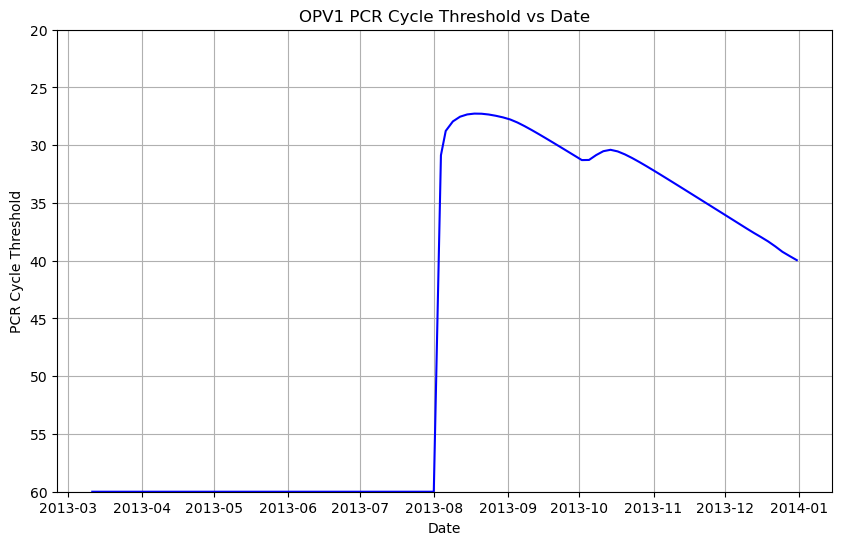
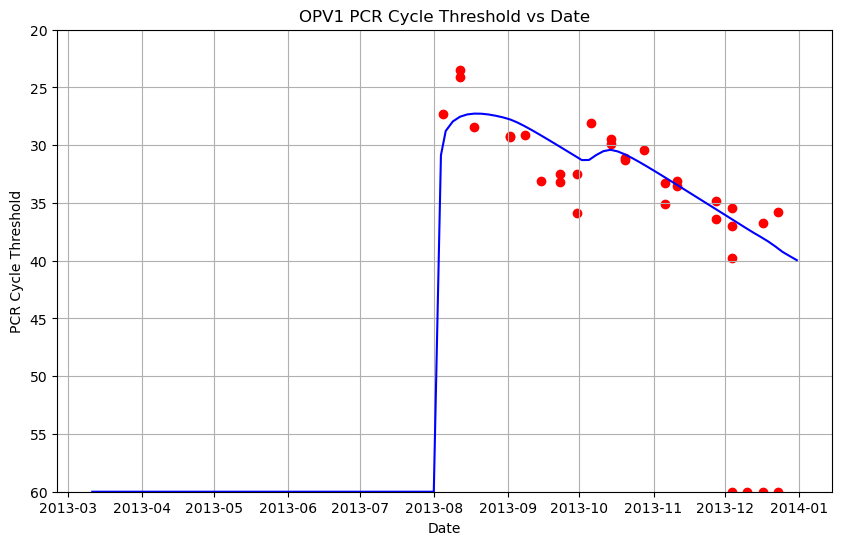
added scatter plots to PCR data

diff --git a/model_sim.py b/model_sim.py
@@ -4,6 +4,10 @@ import matplotlib.pyplot as plt
 import math
 import matplotlib.dates as mdates
 from datetime import datetime, timedelta
+import csv
+import data_parser as parser
+import datetime
+
 
 
 
@@ -130,17 +134,33 @@ RW_values = y_values[9]
 Io_values = IOT_values + IOV_values
 
 # Add function for cycle thresholds
-y_w = calculate_y(sewage_scaling_w, IW_values)
-y_o = calculate_y(sewage_scaling_o, Io_values)
+y_w_model = calculate_y(sewage_scaling_w, IW_values)
+y_o_model = calculate_y(sewage_scaling_o, Io_values)
+
+# Parse WPV1.csv
+WPV1_header, WPV1_data = parser.parse_csv("WPV1.csv")
+WPV1_data_dates = [row[0] for row in WPV1_data]  # Assuming the dates are in the first column
+y_w_data = [float(row[1]) for row in WPV1_data]  # Assuming the values are in the second column
+
+reference_date = datetime.datetime(2013, 3, 11)
+WPV1_dates = [reference_date + datetime.timedelta(days=int(day)) for day in WPV1_data_dates]
+
+# Parse OPV1.csv
+OPV1_header, OPV1_data = parser.parse_csv("OPV1.csv")
+OPV1_data_dates = [row[0] for row in OPV1_data]  # Assuming the dates are in the first column
+y_o_data = [float(row[1]) for row in OPV1_data]  # Assuming the values are in the second column
+
+OPV1_reference_date = datetime.datetime(2013, 8, 5)
+OPV1_dates = [OPV1_reference_date + datetime.timedelta(days=int(day)) for day in OPV1_data_dates]
+
 
 # Define start and end dates
-start_date = datetime(2013, 3, 11)
-end_date = datetime(2013, 12, 31)
+start_date = datetime.datetime(2013, 3, 11)
+end_date = datetime.datetime(2013, 12, 31)
 
 # Convert numerical values of t_values to dates
 num_days = 295
 date_range = [start_date + timedelta(days=int(t)) for t in np.linspace(0, num_days, len(t_values))]
-
 
 # Plotting and saving each variable separately
 
@@ -217,9 +237,11 @@ plt.gca().xaxis.set_major_locator(mdates.MonthLocator())
 plt.savefig('Recovered_plot.png', bbox_inches='tight')
 plt.close()
 
-# Plot y_w
+# Plot y_w_model
 plt.figure(figsize=(10, 6))
-plt.plot(date_range, y_w, color='blue')
+plt.plot(date_range, y_w_model, color='blue')
+plt.scatter(WPV1_dates, y_w_data, color='red', marker='o')  # Scatter plot of parsed data
+
 plt.xlabel('Date')
 plt.ylabel('PCR Cycle Threshold')
 plt.title('WPV1 PCR Cycle Threshold vs Date')
@@ -235,9 +257,11 @@ plt.gca().xaxis.set_major_locator(mdates.MonthLocator())
 plt.savefig('yw_plot.png', bbox_inches='tight')
 plt.close()
 
-# Plot y_o
+# Plot y_o_model
 plt.figure(figsize=(10, 6))
-plt.plot(date_range, y_o, color='blue')
+plt.plot(date_range, y_o_model, color='blue')
+plt.scatter(OPV1_dates, y_o_data, color='red', marker='o')  # Scatter plot of parsed data
+
 plt.xlabel('Date')
 plt.ylabel('PCR Cycle Threshold')
 plt.title('OPV1 PCR Cycle Threshold vs Date')

diff --git a/data_parser.py b/data_parser.py
@@ -1,0 +1,21 @@
+import csv
+from datetime import datetime
+
+def parse_csv(csv_name):
+    data = []
+    with open(csv_name, 'r') as csv_file:
+        csv_reader = csv.reader(csv_file)
+        header = next(csv_reader)  # Read the header row
+        first_date = None
+        for row in csv_reader:
+            date_str = row[0]
+            value_str = row[1]
+            date = datetime.strptime(date_str, '%Y%m%d')  # Parse date string
+            if first_date is None:
+                first_date = date
+                t = 0
+            else:
+                t = (date - first_date).days  # Calculate days from first date
+            value = float(value_str)  # Convert value to float
+            data.append((t, value))  # Append (t, value) tuple to data list
+    return header, data
